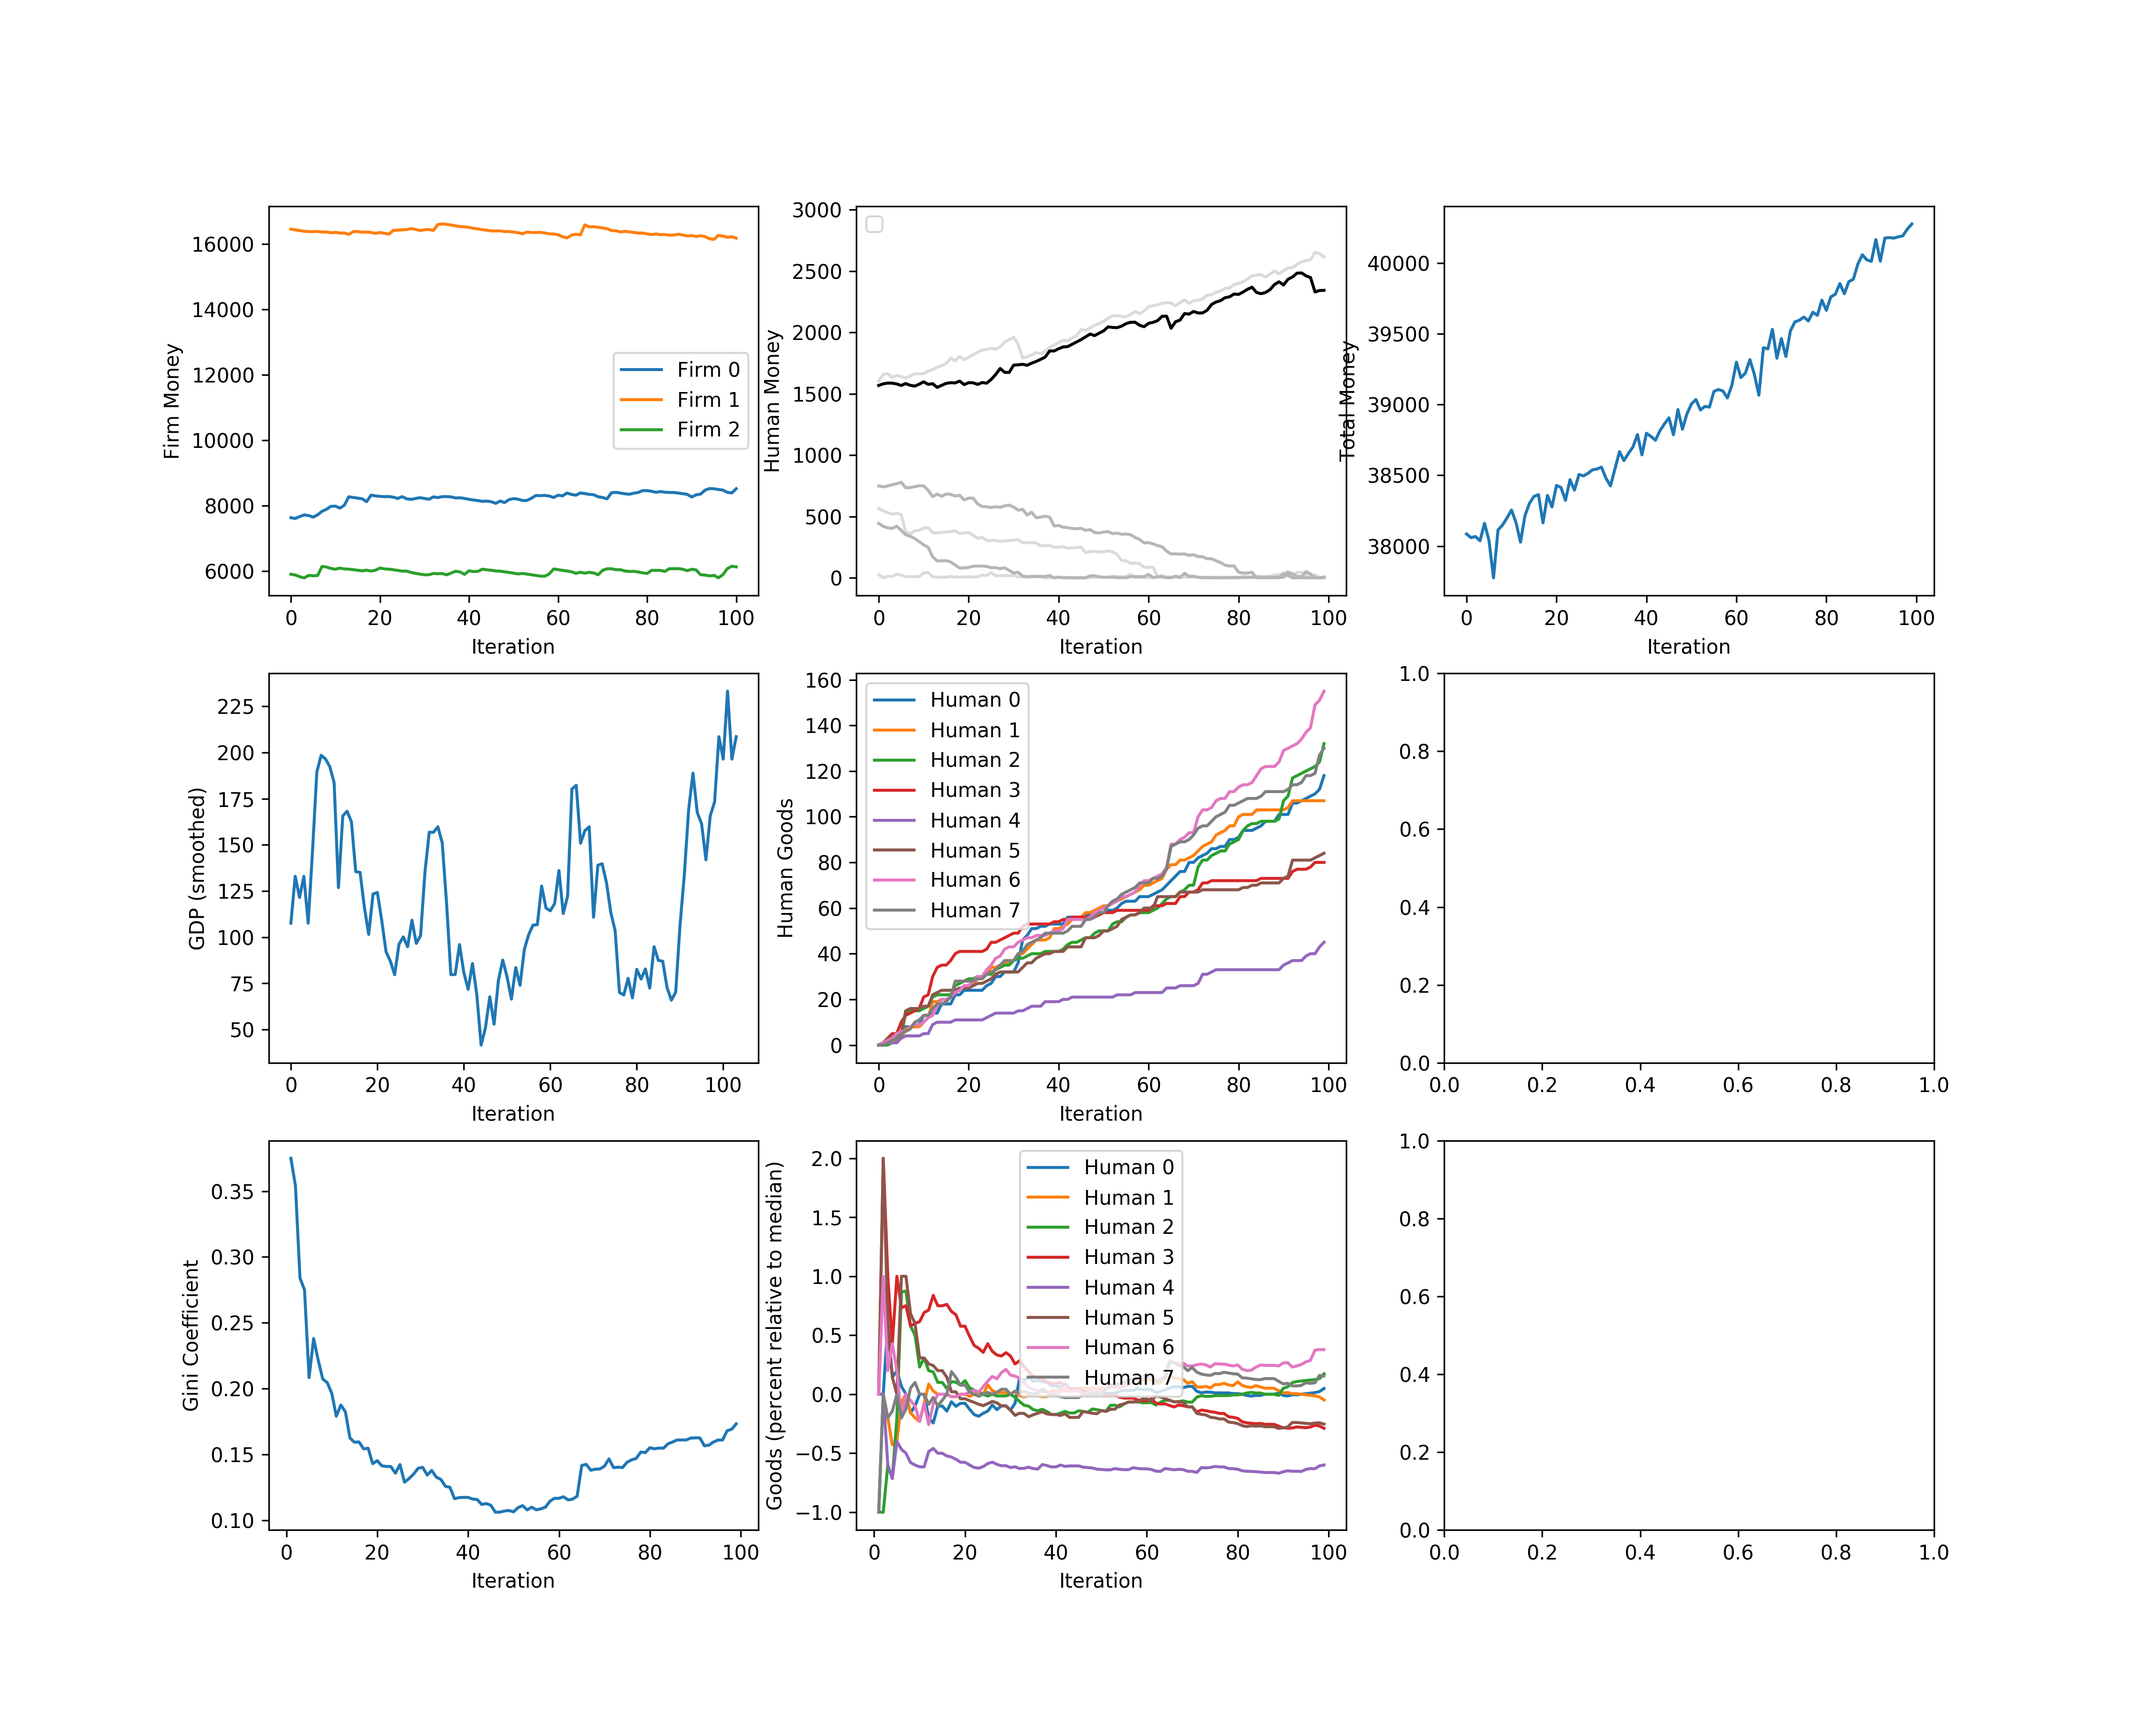
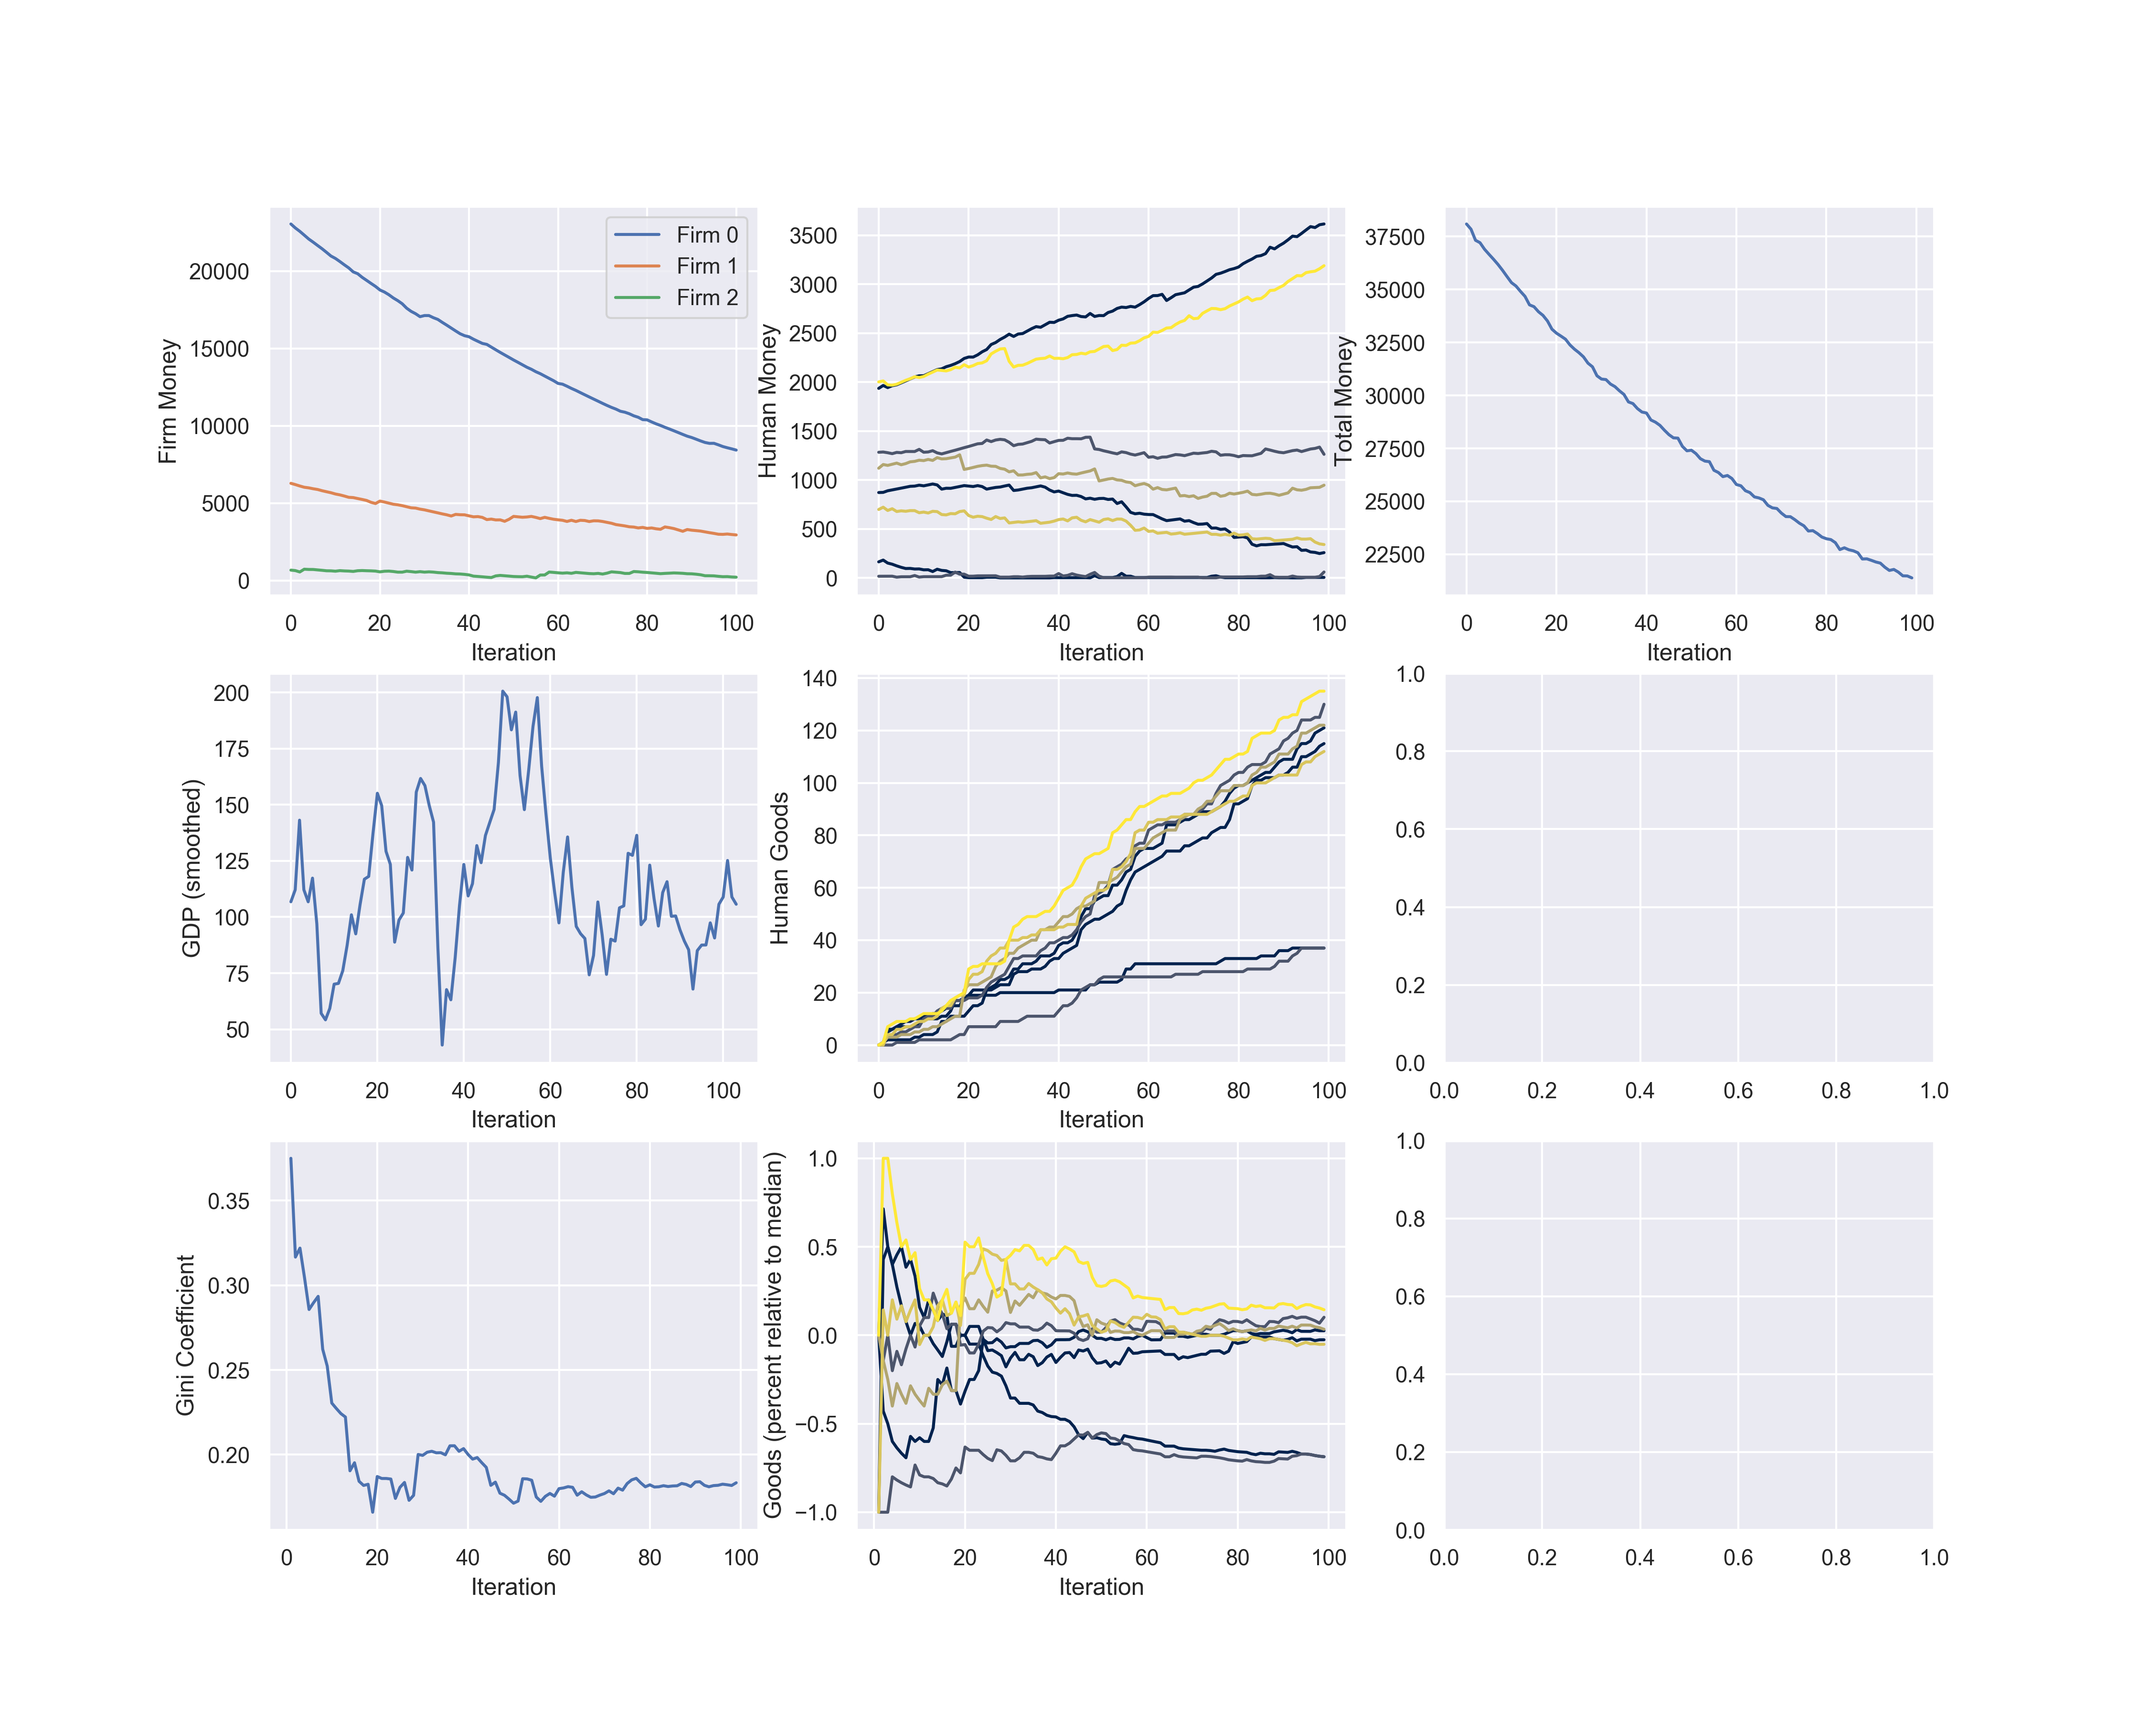
More analytics

diff --git a/analytics.py b/analytics.py
@@ -4,6 +4,8 @@ import matplotlib.pyplot as plt
 from matplotlib import cm
 from constants import *
 from collections import Counter
+import seaborn as sns
+sns.set(style="darkgrid")
 
 def compute_stats(m, firm_action_hist, person_action_hist, 
         firm_money_recv, firm_money_paid, person_goods_recv, person_money_hist,
@@ -92,7 +94,7 @@ def save_plots_from_iteration(stats, iteration_num, name):
     _, axs = plt.subplots(3, 3, figsize=(15, 12))
     plot_firm_money_hist(axs[0, 0], stats['firm_money_hists'])
     plot_human_money_hist(axs[0, 1], stats)
-    plot_human_goods_hist(axs[1, 1], stats['people_goods_over_time'])
+    plot_human_goods_hist(axs[1, 1], stats)
     plot_gdp_smoothed(axs[1, 0], stats)
     plot_median_human_goods(axs[2, 1], stats)
     plot_total_money(axs[0, 2], stats)
@@ -107,7 +109,7 @@ def plot_firm_money_hist(ax, firm_money_hists):
     ax.legend()
 
 def plot_human_money_hist(ax, stats):
-    colormap = cm.get_cmap('binary', len(stats['people_money_over_time']))
+    colormap = cm.get_cmap('cividis', len(stats['people_money_over_time']))
     skill_map = sorted([(skill, idx) for idx, skill in enumerate(stats['person_skills'])])
     max_skill = skill_map[-1][0]
     min_skill = skill_map[0][0]
@@ -116,28 +118,44 @@ def plot_human_money_hist(ax, stats):
     human_money_hists = stats['people_money_over_time']
     for skill, idx in skill_map:
         human_money_hist = human_money_hists[idx]
-        color = colormap((skill - min_skill) / dskill)
+        color = colormap((skill - min_skill) / (dskill))
         ax.plot(np.arange(len(human_money_hist)), human_money_hist, color=color)
     ax.set_xlabel("Iteration")
     ax.set_ylabel("Human Money")
 
-def plot_human_goods_hist(ax, human_good_hists):
-    for idx, human_good_hist in enumerate(human_good_hists):
-        ax.plot(np.arange(len(human_good_hist)), human_good_hist, label='Human %s' % idx)
+def plot_human_goods_hist(ax, stats):
+    human_good_hists = stats['people_goods_over_time']
+
+    colormap = cm.get_cmap('cividis', len(stats['people_money_over_time']))
+    skill_map = sorted([(skill, idx) for idx, skill in enumerate(stats['person_skills'])])
+    max_skill = skill_map[-1][0]
+    min_skill = skill_map[0][0]
+    dskill = max_skill - min_skill
+
+    for skill, idx in skill_map:
+        human_good_hist = human_good_hists[idx]
+        color = colormap((skill - min_skill) / (dskill))
+        ax.plot(np.arange(len(human_good_hist)), human_good_hist, color=color)
     ax.set_xlabel("Iteration")
     ax.set_ylabel("Human Goods")
-    ax.legend()
 
 def plot_median_human_goods(ax, stats):
+    colormap = cm.get_cmap('cividis', len(stats['people_money_over_time']))
+    skill_map = sorted([(skill, idx) for idx, skill in enumerate(stats['person_skills'])])
+    max_skill = skill_map[-1][0]
+    min_skill = skill_map[0][0]
+    dskill = max_skill - min_skill
+
     ps = stats['people_goods_over_time']
 
     median_p = [np.median([p[i] for p in ps]) for i in range(len(ps[0]))]
     with np.errstate(divide='ignore', invalid='ignore'):
-        for idx, p in enumerate(ps):
-            ax.plot((p - median_p) / median_p, label='Human %s' % idx)
+        for skill, idx in skill_map:
+            p = ps[idx]
+            color = colormap((skill - min_skill) / (dskill))
+            ax.plot((p - median_p) / median_p, color=color)
     ax.set_xlabel("Iteration")
     ax.set_ylabel("Goods (percent relative to median)")
-    ax.legend()
 
 def plot_total_money(ax, stats):
     pm = stats['people_money_over_time']

diff --git a/firm.py b/firm.py
@@ -89,6 +89,7 @@ class FirmAgent(Agent):
         assert(self.num_goods >= 0 and self.money >= 0)
 
         self.money -= FIRM_OPERATING_COST
+        self.money *= FIRM_INTEREST
 
         self.money_recv.append(money_recv)
         self.epis_actions.append(action)

diff --git a/constants.py b/constants.py
@@ -13,6 +13,7 @@ TOTAL_MONEY_FIRMS = 10000 * NUM_FIRMS
 TOTAL_MONEY_PEOPLE = 1000 * NUM_PEOPLE
 DISCOUNT = 0.99
 HUMAN_INTEREST = 1.01
+FIRM_INTEREST = 0.996
 FIRM_OPERATING_COST = 20
 
 # Length of firm demand curve.
